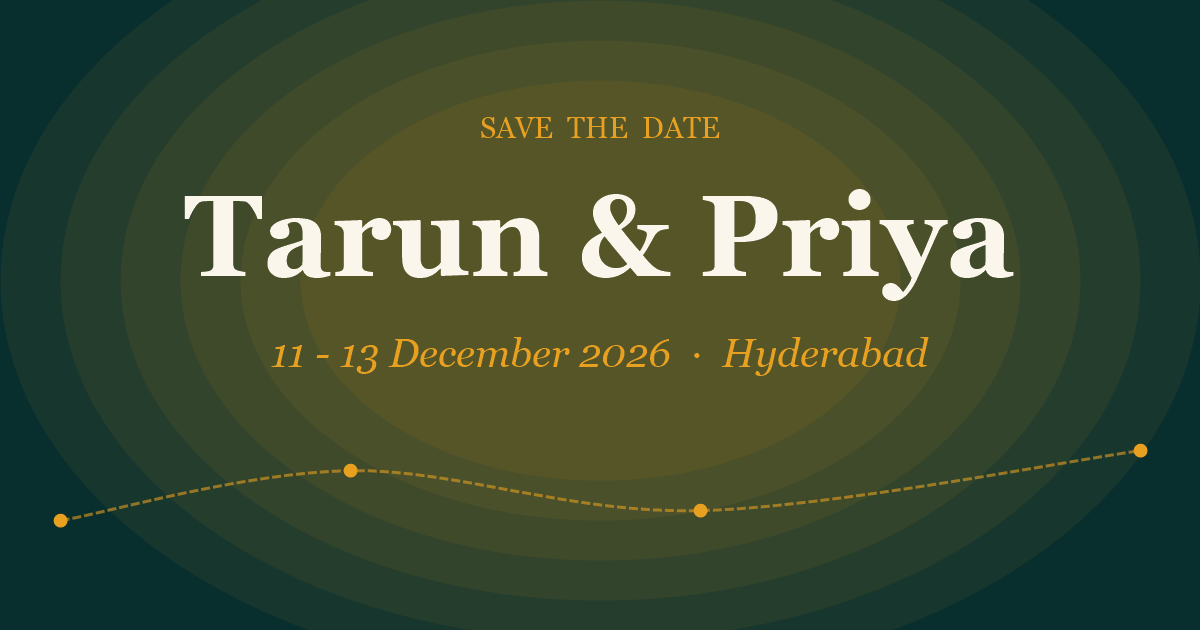
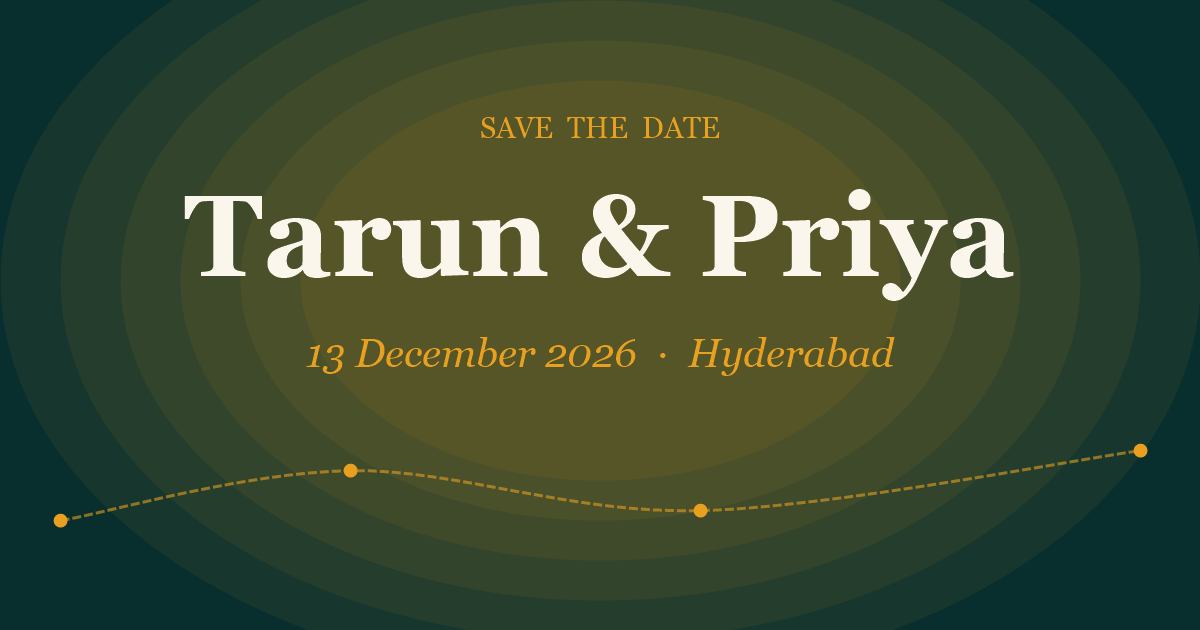
Wedding-only invite variant (13 December 2026)
Cloned from the save-the-date site for guests invited to the wedding day
only. Trims the event list to just the wedding, so the itinerary shows a
single centered card ("The Celebration", no day badge) and the calendar
file/links carry one event. Updates all date displays to 13 Dec 2026,
retargets the countdown, regenerates the OG image, and sets the GitHub
Pages base to /savethedate-wedding/. Story, proposals, photos, music,
and animations are unchanged.

Changed region(s): [[0.2158, 0.5429, 0.7708, 0.6032]]

diff --git a/src/components/Itinerary.jsx b/src/components/Itinerary.jsx
@@ -14,18 +14,27 @@ import { Music, Flower2, Rings, iconProps } from "./icons.jsx";
 const ICONS = { music: Music, flower: Flower2, rings: Rings };
 
 export default function Itinerary() {
+  // Wedding-only variant: a single event reads as one centered card, no
+  // "Day 0X" badge and no 3-across grid.
+  const single = site.events.length === 1;
   return (
     <section className="relative px-5 py-24 sm:px-8">
       <header className="mx-auto mb-14 max-w-xl text-center">
         <p className="mb-3 text-xs font-medium uppercase tracking-[0.4em] text-marigold-light">
-          Three days of celebration
+          {single ? "Join us as we say I do" : "Three days of celebration"}
         </p>
         <h2 className="font-display text-4xl font-semibold text-ivory sm:text-5xl">
-          The Wedding Weekend
+          {single ? "The Celebration" : "The Wedding Weekend"}
         </h2>
       </header>
 
-      <ol className="mx-auto grid max-w-5xl gap-6 md:grid-cols-3">
+      <ol
+        className={
+          single
+            ? "mx-auto flex max-w-sm justify-center"
+            : "mx-auto grid max-w-5xl gap-6 md:grid-cols-3"
+        }
+      >
         {site.events.map((ev, i) => (
           <motion.li
             key={ev.id}
@@ -40,10 +49,12 @@ export default function Itinerary() {
             }}
             whileTap={{ scale: 0.98 }}
           >
-            {/* Day badge */}
-            <span className="rounded-full border border-marigold/40 px-3 py-1 text-[10px] font-semibold uppercase tracking-[0.3em] text-marigold-light">
-              Day 0{ev.day}
-            </span>
+            {/* Day badge — hidden for the single-event (wedding-only) variant */}
+            {!single && (
+              <span className="rounded-full border border-marigold/40 px-3 py-1 text-[10px] font-semibold uppercase tracking-[0.3em] text-marigold-light">
+                Day 0{ev.day}
+              </span>
+            )}
 
             {/* Icon in a gold ring — line icon, lifts slightly on card hover */}
             <span className="mt-6 flex h-14 w-14 items-center justify-center rounded-full border border-marigold/40 bg-marigold/10 text-marigold transition-[background-color,transform] duration-300 group-hover:scale-105 group-hover:bg-marigold/20">

diff --git a/src/config/site.js b/src/config/site.js
@@ -14,51 +14,22 @@ export const site = {
   },
 
   wedding: {
-    // Countdown targets the FIRST event (Sangeet, evening of 11 Dec).
-    // Celebrations run 11–13 December 2026.
-    startISO: "2026-12-11T19:00:00+05:30",
+    // Wedding-only invite variant: everything centers on the wedding day.
+    // Countdown targets the wedding (evening of 13 Dec).
+    startISO: "2026-12-13T18:00:00+05:30",
     endISO: "2026-12-13T23:00:00+05:30",
-    dateDisplay: "11 – 13 December 2026",
+    dateDisplay: "13 December 2026",
     city: "Hyderabad",
     country: "India",
-    venue: "Ayana Resorts & Grand Lawns Jalavihar",
+    venue: "Grand Lawns Jalavihar, Hyderabad",
   },
 
-  // The three-day wedding weekend. Powers the itinerary section AND the
-  // multi-event calendar file. Times are IST (+05:30) — adjust start/end
-  // hours here if the schedule firms up; everything else updates itself.
+  // Single event (the wedding). Powers the itinerary card AND the calendar
+  // file. Times are IST (+05:30) — adjust the hours here if they firm up.
   events: [
     {
-      id: "sangeet",
-      day: 1,
-      dayName: "Friday",
-      date: "11 December 2026",
-      name: "Sangeet",
-      time: "Evening",
-      venue: "Ayana Resorts, Hyderabad",
-      dressCode:
-        "Vibrant Indo-Western - think sequins & glitters; dance-ready is the dress code.",
-      icon: "music", // music note
-      startISO: "2026-12-11T19:00:00+05:30",
-      endISO: "2026-12-11T23:00:00+05:30",
-    },
-    {
-      id: "haldi",
-      day: 2,
-      dayName: "Saturday",
-      date: "12 December 2026",
-      name: "Haldi",
-      time: "Morning",
-      venue: "Ayana Resorts, Hyderabad",
-      dressCode:
-        "Sunshine hues - yellows, oranges, and florals.",
-      icon: "flower", // turmeric / marigold bloom
-      startISO: "2026-12-12T10:00:00+05:30",
-      endISO: "2026-12-12T13:00:00+05:30",
-    },
-    {
       id: "wedding",
-      day: 3,
+      day: 1,
       dayName: "Sunday",
       date: "13 December 2026",
       name: "Wedding",

diff --git a/index.html b/index.html
@@ -7,21 +7,21 @@
 
     <!-- Primary meta -->
     <title>Tarun &amp; Priya — Save the Date</title>
-    <meta name="description" content="Tarun & Priya are getting married! December 11–13, 2026 · Hyderabad, India. Save the date." />
+    <meta name="description" content="Tarun & Priya are getting married! December 13, 2026 · Hyderabad, India. Save the date." />
     <meta name="theme-color" content="#0F4C4C" />
 
     <!-- Open Graph (WhatsApp / social link preview) -->
     <!-- If you later add a custom domain, update these two absolute URLs to match. -->
     <meta property="og:type" content="website" />
     <meta property="og:title" content="Tarun & Priya — Save the Date" />
-    <meta property="og:description" content="Four cities. One story. December 11–13, 2026 · Hyderabad, India." />
-    <meta property="og:url" content="https://cntarun.github.io/savethedate/" />
-    <meta property="og:image" content="https://cntarun.github.io/savethedate/og-image.png" />
+    <meta property="og:description" content="Four cities. One story. December 13, 2026 · Hyderabad, India." />
+    <meta property="og:url" content="https://cntarun.github.io/savethedate-wedding/" />
+    <meta property="og:image" content="https://cntarun.github.io/savethedate-wedding/og-image.png" />
     <meta property="og:image:width" content="1200" />
     <meta property="og:image:height" content="630" />
     <meta name="twitter:card" content="summary_large_image" />
     <meta name="twitter:title" content="Tarun & Priya — Save the Date" />
-    <meta name="twitter:description" content="Four cities. One story. December 11–13, 2026 · Hyderabad, India." />
+    <meta name="twitter:description" content="Four cities. One story. December 13, 2026 · Hyderabad, India." />
 
     <!-- Fonts: Fraunces (display serif) + Outfit (body sans) -->
     <link rel="preconnect" href="https://fonts.googleapis.com" />

diff --git a/src/components/EventDetails.jsx b/src/components/EventDetails.jsx
@@ -11,6 +11,8 @@ import { CalendarPlus, ArrowUpRight, iconProps } from "./icons.jsx";
    ============================================================ */
 
 export default function EventDetails() {
+  const single = site.events.length === 1; // wedding-only invite variant
+
   const celebrate = (e) => {
     const rect = e.currentTarget.getBoundingClientRect();
     burstConfetti(rect.left + rect.width / 2, rect.top + rect.height / 2, 70);
@@ -40,7 +42,7 @@ export default function EventDetails() {
           {site.wedding.city}, {site.wedding.country}
         </p>
 
-        {/* Main CTA — downloads the combined 3-event .ics */}
+        {/* Main CTA — downloads the .ics (single wedding event here) */}
         <motion.button
           type="button"
           onClick={addAll}
@@ -49,12 +51,14 @@ export default function EventDetails() {
           whileTap={{ scale: 0.94 }}
         >
           <CalendarPlus className="h-5 w-5" {...iconProps} />
-          Add all events to calendar
+          {single ? "Add to calendar" : "Add all events to calendar"}
         </motion.button>
 
         {/* Helper text */}
         <p className="mt-4 text-sm text-ivory/55">
-          Add all three events at once, or add them individually below
+          {single
+            ? "Download the invite, or add it to Google below"
+            : "Add all three events at once, or add them individually below"}
         </p>
 
         {/* Per-event Google Calendar one-click links */}

diff --git a/vite.config.js b/vite.config.js
@@ -3,9 +3,9 @@ import react from '@vitejs/plugin-react'
 import tailwindcss from '@tailwindcss/vite'
 
 // https://vite.dev/config/
-// Served from https://cntarun.github.io/savethedate/ on GitHub Pages, so the
-// production build uses that sub-path as its base. Local dev stays at "/".
+// Served from https://cntarun.github.io/savethedate-wedding/ on GitHub Pages,
+// so the production build uses that sub-path as its base. Local dev stays "/".
 export default defineConfig(({ command }) => ({
-  base: command === 'build' ? '/savethedate/' : '/',
+  base: command === 'build' ? '/savethedate-wedding/' : '/',
   plugins: [react(), tailwindcss()],
 }))

diff --git a/src/components/BoardingPass.jsx b/src/components/BoardingPass.jsx
@@ -140,7 +140,7 @@ export default function BoardingPass({ onDone }) {
               {/* Details row */}
               <div className="grid grid-cols-3 gap-2 px-5 pb-5 pt-2">
                 <Field label="Flight" value="4EVER" />
-                <Field label="Boarding" value="11 DEC 2026" />
+                <Field label="Boarding" value="13 DEC 2026" />
                 <Field
                   label="Dest"
                   value={

diff --git a/src/lib/calendar.js b/src/lib/calendar.js
@@ -25,7 +25,7 @@ function escapeICS(text) {
 }
 
 function eventDescription(ev) {
-  return `${ev.name} (${ev.time}) — part of ${him} & ${her}'s wedding weekend. ${hashtag}`;
+  return `${ev.name} (${ev.time}) — join ${him} & ${her} to celebrate their wedding. ${hashtag}`;
 }
 
 /** One BEGIN:VEVENT…END:VEVENT block per event.
